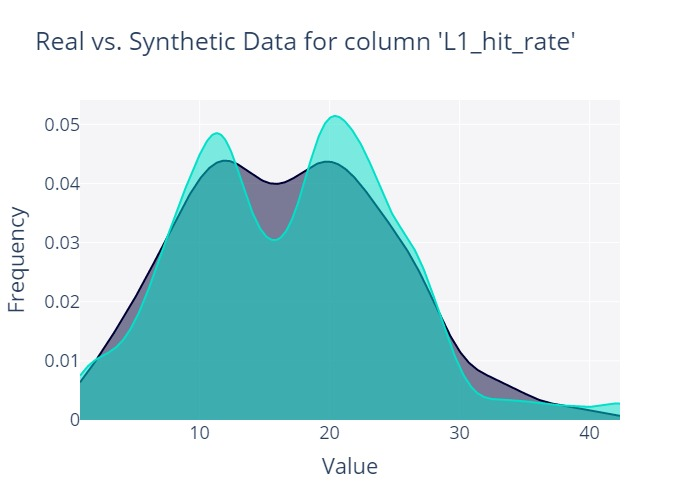
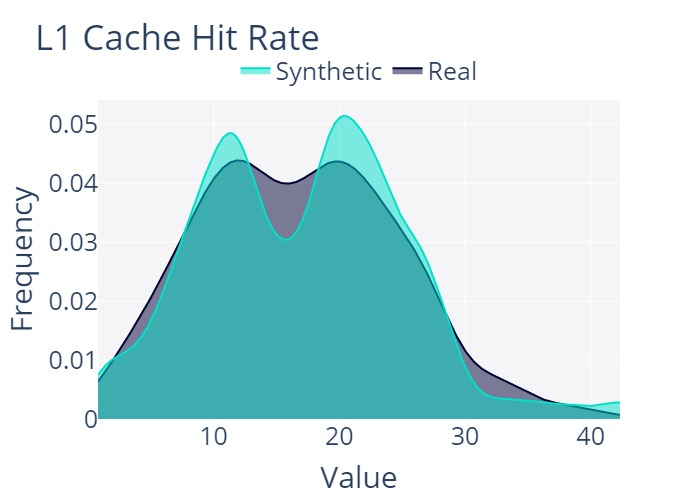
centered ks score

diff --git a/Diffusion model/graph_generate.py b/Diffusion model/graph_generate.py
@@ -48,16 +48,34 @@ print("Report",quality_report.get_details(property_name='Column Shapes'))
 
 import plotly.express as px
 
+column_name_map = {
+    'occupancy': 'Occupancy',
+    'ILP': 'Instruction-Level Parallelism',
+    'intensity': 'Intensity',
+    'reuse_ratio': 'Reuse Ratio',
+    'ld_coalesce': 'Load Coalescence',
+    'L2_hit_rate': 'L2 Cache Hit Rate',
+    'L1_hit_rate': 'L1 Cache Hit Rate',
+    'branch_eff': 'Branch Efficiency',
+    'pwr_avg': 'Average Power'
+}
 
 
 fig = quality_report.get_visualization(property_name='Column Shapes')
 
-fig.update_traces(marker=dict(color='blue'))  # Change 'blue' to your desired color
+fig.update_traces(marker=dict(color='blue'))  
 fig.update_layout(
-    plot_bgcolor='white',   # Change plot background color
-    paper_bgcolor='white',  # Change paper background color
-    font=dict(color='black', size=18),  # Increase font size
-    showlegend=False  # Remove legend
+    title={
+        'text': "Kolmogorov-Smirnov score",
+        'y':0.9,
+        'x':0.5,
+        'xanchor': 'center',
+        'yanchor': 'top'
+    },
+    plot_bgcolor='white', 
+    paper_bgcolor='white', 
+    font=dict(color='black', size=25),  
+    showlegend=False  
 )
 
 fig.write_image(f"figure/TabDDPM KScomplement.jpg")
@@ -70,7 +88,18 @@ def fig_generator(feature):
         metadata=metadata,
         column_name=feature
     )
-    fig.update_layout(showlegend=False, font=dict(size=18))
+    fig.update_layout(
+        title=f"{column_name_map[feature]}",
+        showlegend=True,
+        font=dict(size=25),
+        legend=dict(
+            orientation='h',
+            yanchor='bottom',
+            y=1.02,
+            xanchor='center',
+            x=0.5
+        )
+    )
     fig.write_image(f"figure/{feature}.jpg")
 
 for f in ['occupancy', 'ILP',
@@ -88,18 +117,12 @@ sns.set_context("talk", font_scale=1.4)
 corr = synthetic_data.corr()
 plt.figure(figsize=(10, 8))
 sns.heatmap(corr, cmap='coolwarm',annot=False, cbar=False)
-plt.title('TabDDPM synthetic Data Correlation Heatmap', fontsize=20)
+plt.title('TabDDPM synthetic Data Correlation Heatmap', fontsize=25)
 plt.tight_layout(rect=[0, 0, 1, 0.95])  # Adjust this to give more space for the title
 plt.savefig('figure/TabDDPM synthetic Data Correlation Heatmap.jpg')
 plt.close()
 
 print("Done")
-
-
-
-
-
-
 
 
 

diff --git a/CTGAN Synthesizer/graph_generate.py b/CTGAN Synthesizer/graph_generate.py
@@ -101,14 +101,13 @@ for f in ['occupancy', 'ILP',
 import seaborn as sns
 import matplotlib.pyplot as plt
 
-# Adjust the font sizes
 sns.set_context("talk", font_scale=1.4)
 
 corr = real_data.corr()
 plt.figure(figsize=(10, 8))
 sns.heatmap(corr, cmap='coolwarm', annot=False, cbar=False)
 plt.title('Real Data Correlation Heatmap', fontsize=25)
-plt.tight_layout(rect=[0, 0, 1, 0.95])  # Adjust this to give more space for the title
+plt.tight_layout(rect=[0, 0, 1, 0.95])
 plt.savefig('ctganfigure/Real_Data_Correlation_Heatmap_Adjusted.jpg')
 plt.close()
 
@@ -116,7 +115,7 @@ corr = synthetic_data.corr()
 plt.figure(figsize=(10, 8))
 sns.heatmap(corr, cmap='coolwarm',annot=False, cbar=False)
 plt.title('CTGAN Synthetic Data Correlation Heatmap', fontsize=25)
-plt.tight_layout(rect=[0, 0, 1, 0.95])  # Adjust this to give more space for the title
+plt.tight_layout(rect=[0, 0, 1, 0.95])  
 plt.savefig('ctganfigure/CTGAN_Synthetic_Data_Correlation_Heatmap_Adjusted.jpg')
 plt.close()
 
